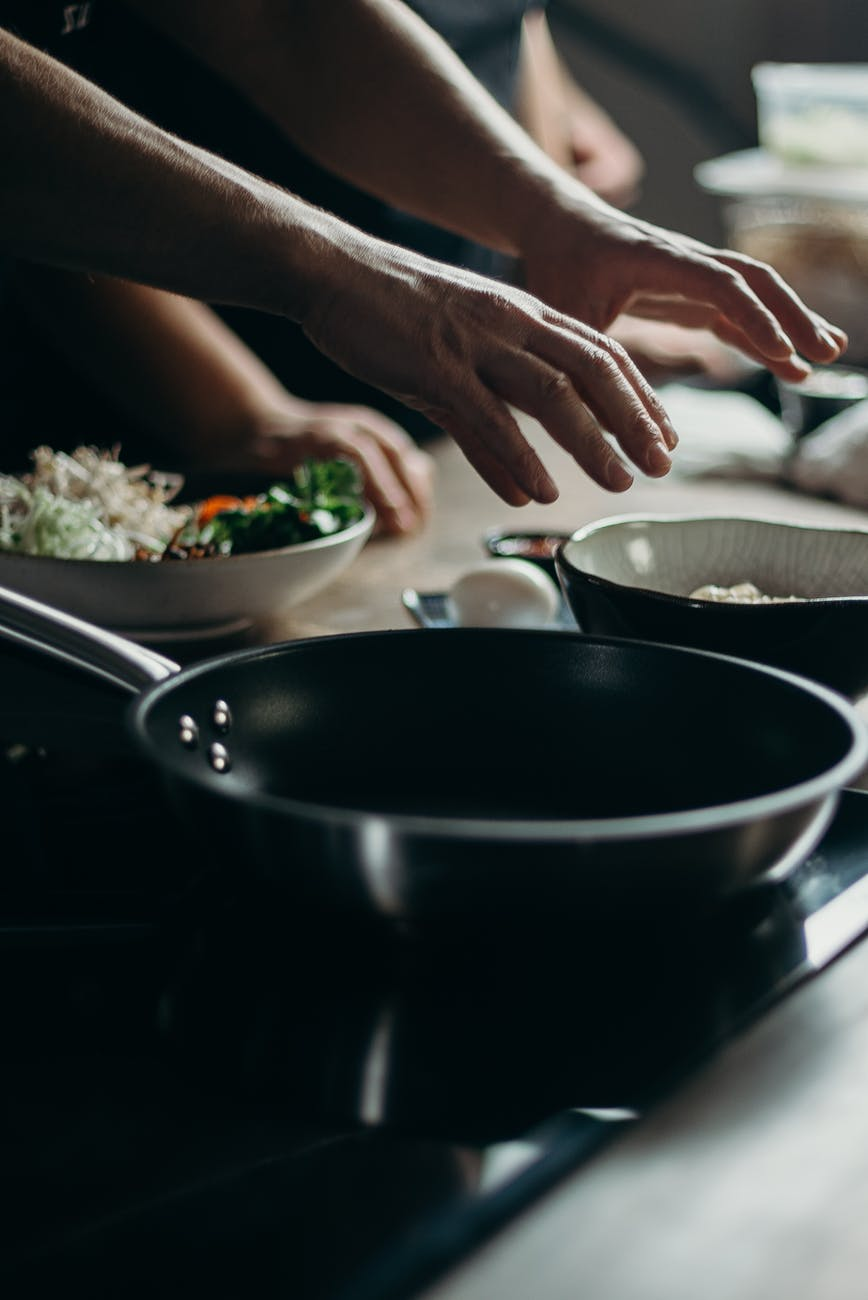
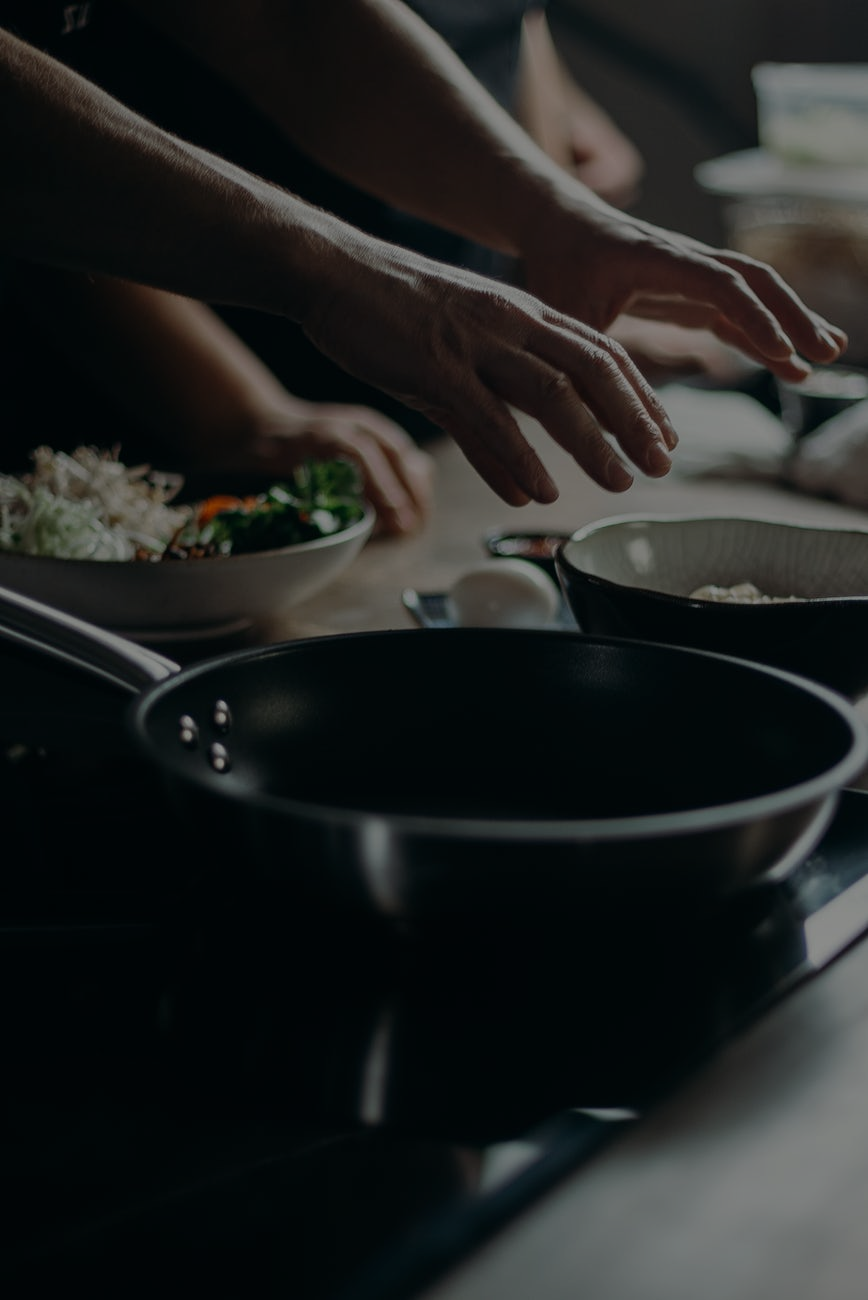
Added home page footer section

diff --git a/styles/shared/about-hero-section.css b/styles/shared/about-hero-section.css
@@ -3,18 +3,20 @@
   background-repeat: no-repeat;
   background-size: cover;
   background-position: top;
+  display: flex;
+  flex-direction: column;
+  height: 50vh;
 }
 .hero--text-div {
-  position: relative;
-  height: 100%;
+  /* height: 100%; */
   padding: 0 50px;
   display: flex;
+  align-items: center;
   justify-content: center;
-  background-color: rgba(0, 0, 0, 0.4);
+  /* background-color: rgba(0, 0, 0, 0.4); */
 }
 .hero--text-div h1 {
   font: 96px poppins, sans-serif;
-  margin: 22px 0 82px 0;
   font-weight: 900;
   letter-spacing: -3px;
   text-align: center;
@@ -27,6 +29,11 @@
   background-clip: text;
   color: transparent;
 }
+.swipe-pagination-bullet-con {
+  display: flex;
+  justify-content: center;
+  align-items: center;
+}
 .swipe-pagination-bullet {
   background: linear-gradient(
     45deg,
@@ -34,11 +41,7 @@
     var(--main-color) 65%
   );
   padding: 50px 2.5px;
-  align-self: center;
-  position: absolute;
   margin-top: -50px;
-  right: 50%;
-  z-index: 3;
 }
 /* when window is scrolled Y
  add this to create a drop down header 
@@ -57,7 +60,6 @@
   .hero--text-div h1 {
     font-size: 87px;
     line-height: normal;
-    margin: 22px 0 85.5px 0;
   }
 }
 
@@ -67,28 +69,24 @@
   }
   .hero--text-div h1 {
     font-size: 79px;
-    margin: 22px 0 97px 0;
   }
 }
 
 @media (max-width: 894px) {
   .hero--text-div h1 {
     font-size: 71px;
-    margin: 22px 0 108px 0;
   }
 }
 
 @media (max-width: 794px) {
   .hero--text-div h1 {
     font-size: 63px;
-    margin: 22px 0 119.5px 0;
   }
 }
 
 @media (max-width: 704px) {
   .hero--text-div h1 {
     font-size: 56px;
-    margin: 22px 0 130px 0;
   }
 }
 

diff --git a/styles/pages/index.css b/styles/pages/index.css
@@ -13,19 +13,20 @@
   background-size: cover;
   background-position: top;
   text-size-adjust: 100%;
+  height: 100vh;
 }
 .home--hero--text-div {
   position: relative;
-  height: 100%;
-  padding: 50px;
   display: flex;
-  flex-direction: column;
+  height: 100%;
   align-items: center;
-  background-color: rgba(0, 0, 0, 0.4);
+  flex-direction: column;
+  justify-content: center;
+  /* background-color: rgba(0, 0, 0, 0.4); */
 }
 .home--hero--text-div h1 {
   font: 96px poppins, sans-serif;
-  margin-top: 27px;
+  margin-top: -50px;
   font-weight: 900;
   max-width: 950px;
   letter-spacing: -1px;
@@ -65,8 +66,6 @@
   );
   padding: 3px 20px;
   align-self: center;
-  position: absolute;
-  bottom: 50px;
 }
 
 
@@ -246,9 +245,6 @@
 }
 
 @media (max-width: 1132px) {
-  .home--hero--text-div {
-    padding: 50px 35px;
-  }
   .home--service--portfolio {
     padding: 150px 35px;
   }
@@ -262,9 +258,6 @@
     max-width: 850px;
     line-height: 95px;
   }
-  .home--hero--text-div {
-    padding: 50px 20px;
-  }
 }
 @media (max-width: 1002px) {
   .home--service--portfolio {
@@ -276,6 +269,9 @@
 }
 
 @media (max-width: 812px) {
+  .home--hero--sec {
+  height: 90vh;
+}
   .home--hero--text-div h1 {
     font-size: 63px;
     max-width: 650px;

diff --git a/index.html b/index.html
@@ -13,6 +13,7 @@
     <link rel="stylesheet" href="styles/shared/general.css" />
     <link rel="stylesheet" href="styles/shared/navbars.css" />
     <link rel="stylesheet" href="styles/pages/index.css" />
+    <link rel="stylesheet" href="styles/shared/footer.css">
   </head>
   <body>
     <div class="drp-dwn js-drp-dwn">
@@ -177,6 +178,31 @@
         />
       </div>
     </section>
+
+    <footer>
+      <div class="footer--contact-con">
+        <a href="mailto:omanicomltd@yahoo.com" class="i">
+          omanicomltd@yahoo.com
+        </a>
+        <a href="tel:+2348033066161" class="ii">
+          <ion-icon name="call-outline"></ion-icon>
+          +2348033066161
+        </a>
+        <p class="iii">
+          1 ANJORIN LANE - Surulere, Lagos
+        </p>
+      </div>
+      <div class="footer--social-con">
+        <div></div>
+        <div></div>
+        <div></div>
+      </div>
+      <div class="footer--contact-con">
+        <a href="mailto:omanicomltd@yahoo.com" class="i">omanicomltd@yahoo.com</a>
+        <a href="tel:+2348033066161" class="ii">+2348033066161</a>
+        <p class="iii">1 ANJORIN LANE - Surulere, Lagos</p>
+      </div>
+    </footer>
 
     <script src="scripts/navbars.js"></script>
     <script

diff --git a/styles/shared/footer.css b/styles/shared/footer.css
@@ -1,0 +1,42 @@
+footer {
+  background-color: rgb(20, 20, 20);
+  color: white;
+}
+.footer--contact-con {
+  display: flex;
+  align-items: center;
+  padding: 30px;
+  border-bottom: 1.5px solid white;
+  background-color: rgb(15, 15, 15);
+}
+
+.footer--contact-con a, 
+.footer--contact-con p {
+  padding: 10px;
+  display: flex;
+  align-items: center;
+  justify-content: center;
+  flex: 1;
+  gap: 10px;
+}
+.footer--contact-con ion-icon {
+  font-size: 20px;
+}
+.footer--contact-con .i {
+  border-right: 1px solid white;
+}
+.footer--contact-con .iii {
+  border-left: 1px solid white;
+}
+.footer--social-con {
+  height: 300px;
+  display: grid;
+  grid-template-columns: repeat(3, 1fr);
+  align-items: center;
+  gap: 20px;
+  justify-content: center;
+}
+.footer--social-con div {
+  background-color: red;
+  height: 100%;
+}

diff --git a/about-us.html b/about-us.html
@@ -57,7 +57,9 @@
 
     <section class="hero--sec" id="home">
       <header class="header js-header header-scrl">
-        <h1 class="logo">OM<span style="color: var(--main-color)">A</span>NI</h1>
+        <h1 class="logo">
+          OM<span style="color: var(--main-color)">A</span>NI
+        </h1>
         <div class="menu-con">
           <button class="menu js-menu"><i class="lni lni-menu"></i></button>
         </div>
@@ -82,8 +84,12 @@
       <div class="hero--text-div">
         <h1 class="hero-header">About Us</h1>
       </div>
-      <span class="swipe-pagination-bullet"></span>
     </section>
+
+    <div class="swipe-pagination-bullet-con">
+      <span class="swipe-pagination-bullet"></span>
+    </div>
+
     <section></section>
     <script src="scripts/navbars.js"></script>
     <script

diff --git a/styles/shared/navbars.css b/styles/shared/navbars.css
@@ -25,7 +25,7 @@
   flex: 1;
 }
 .drp-dwn a button {
-  background-color: black;
+  background-color: rgb(15, 15, 15);
   border-right: 2px solid var(--main-color);
   border-left: 2px solid var(--secondary-color);
   border-top: 2px solid var(--main-color);
@@ -171,7 +171,7 @@ nav ul li .active {
 .header {
   top: 0;
   z-index: 9;
-  background-color: rgba(0, 0, 0, 0.4);
+  background-color: transparent;
 }
 .header .logo {
   font-size: 2em;
@@ -220,7 +220,7 @@ nav ul li .active {
   font-size: 16px;
 }
 .header a button {
-  background-color: black;
+  background-color: rgb(15, 15, 15);
   border-right: 2px solid var(--main-color);
   border-left: 2px solid var(--secondary-color);
   border-top: 2px solid var(--main-color);

diff --git a/contact-us.html b/contact-us.html
@@ -88,8 +88,12 @@
       <div class="hero--text-div">
         <h1 class="hero-header">Contact Us</h1>
       </div>
-      <span class="swipe-pagination-bullet"></span>
     </section>
+
+    <div class="swipe-pagination-bullet-con">
+      <span class="swipe-pagination-bullet"></span>
+    </div>
+    
     <section>
       <iframe
         src="https://www.google.com/maps/embed?pb=!1m18!1m12!1m3!1d3138.690907362621!2d3.348478688082697!3d6.504433877402458!2m3!1f0!2f0!3f0!3m2!1i1024!2i768!4f13.1!3m3!1m2!1s0x103b8d38ef2b0641%3A0x12620b656d4f4226!2sAlime%20MEDIA!5e0!3m2!1sen!2sng!4v1718568028225!5m2!1sen!2sng"

diff --git a/service.html b/service.html
@@ -82,8 +82,12 @@
       <div class="hero--text-div">
         <h1 class="hero-header">Service</h1>
       </div>
-      <span class="swipe-pagination-bullet"></span>
     </section>
+
+    <div class="swipe-pagination-bullet-con">
+      <span class="swipe-pagination-bullet"></span>
+    </div>
+
     <section></section>
     <script src="scripts/navbars.js"></script>
     <script
